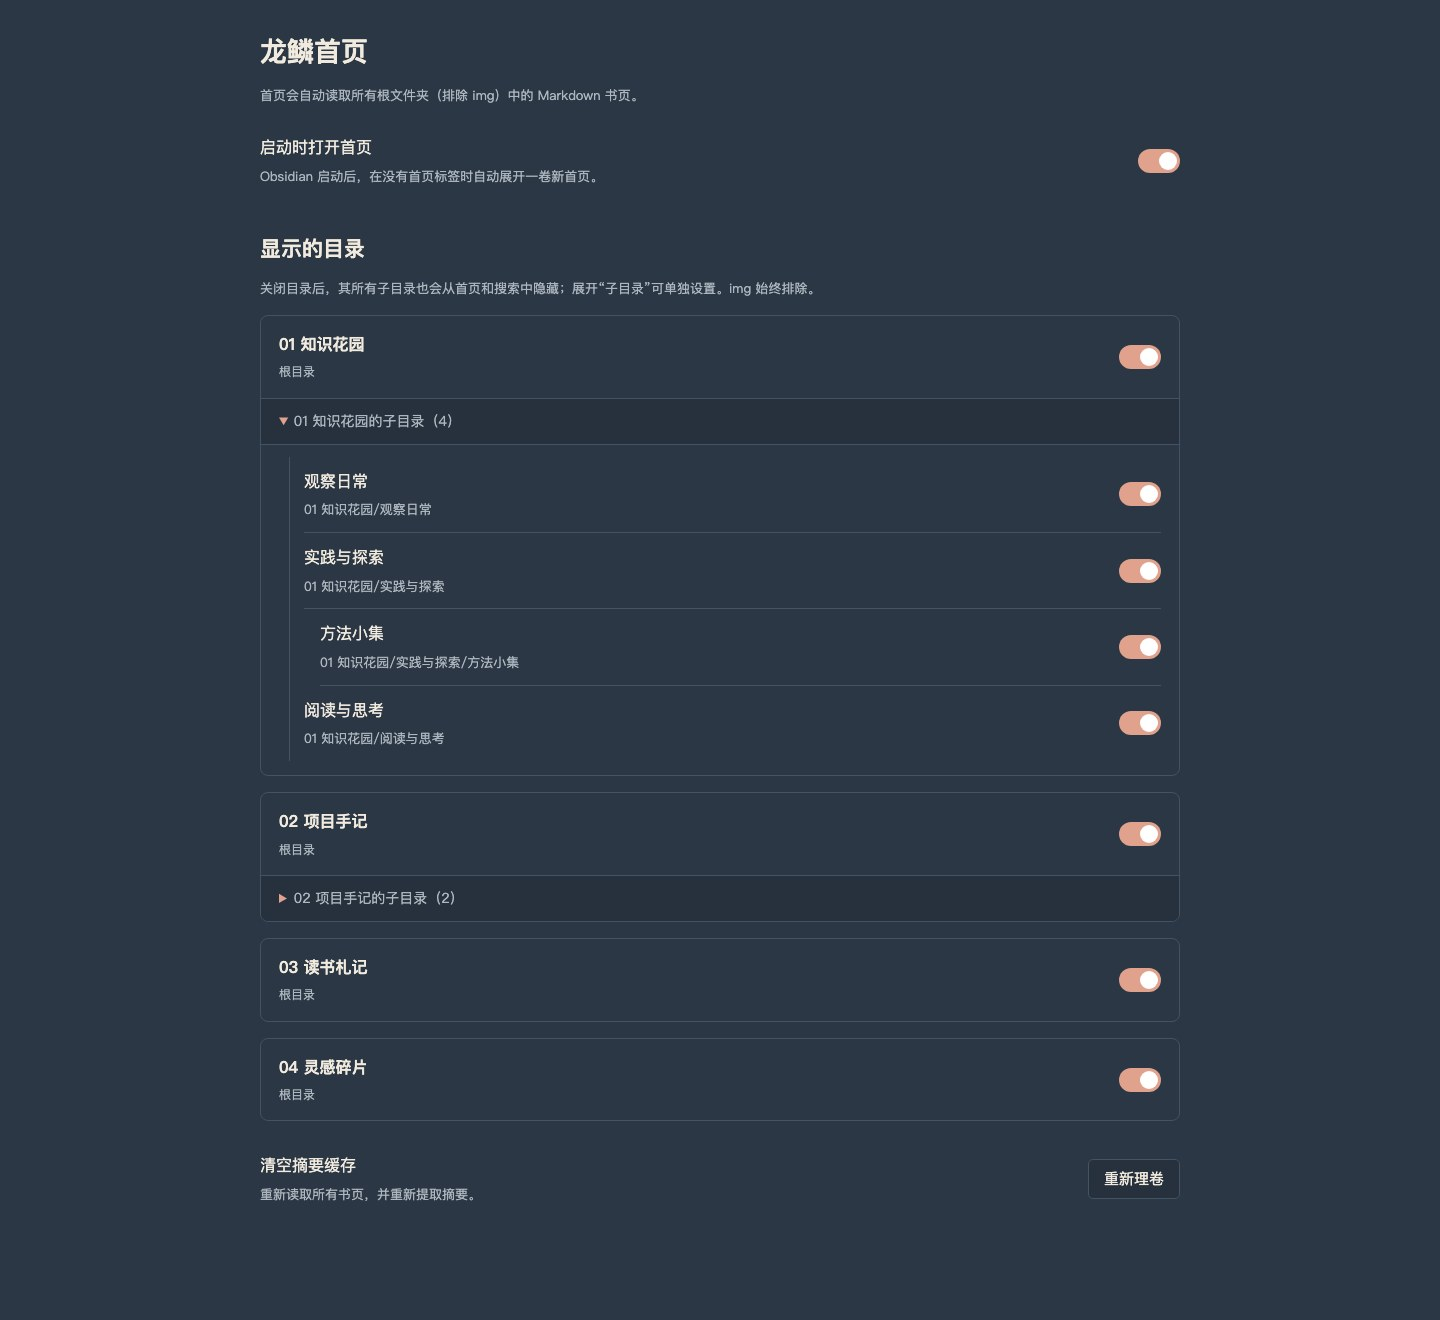
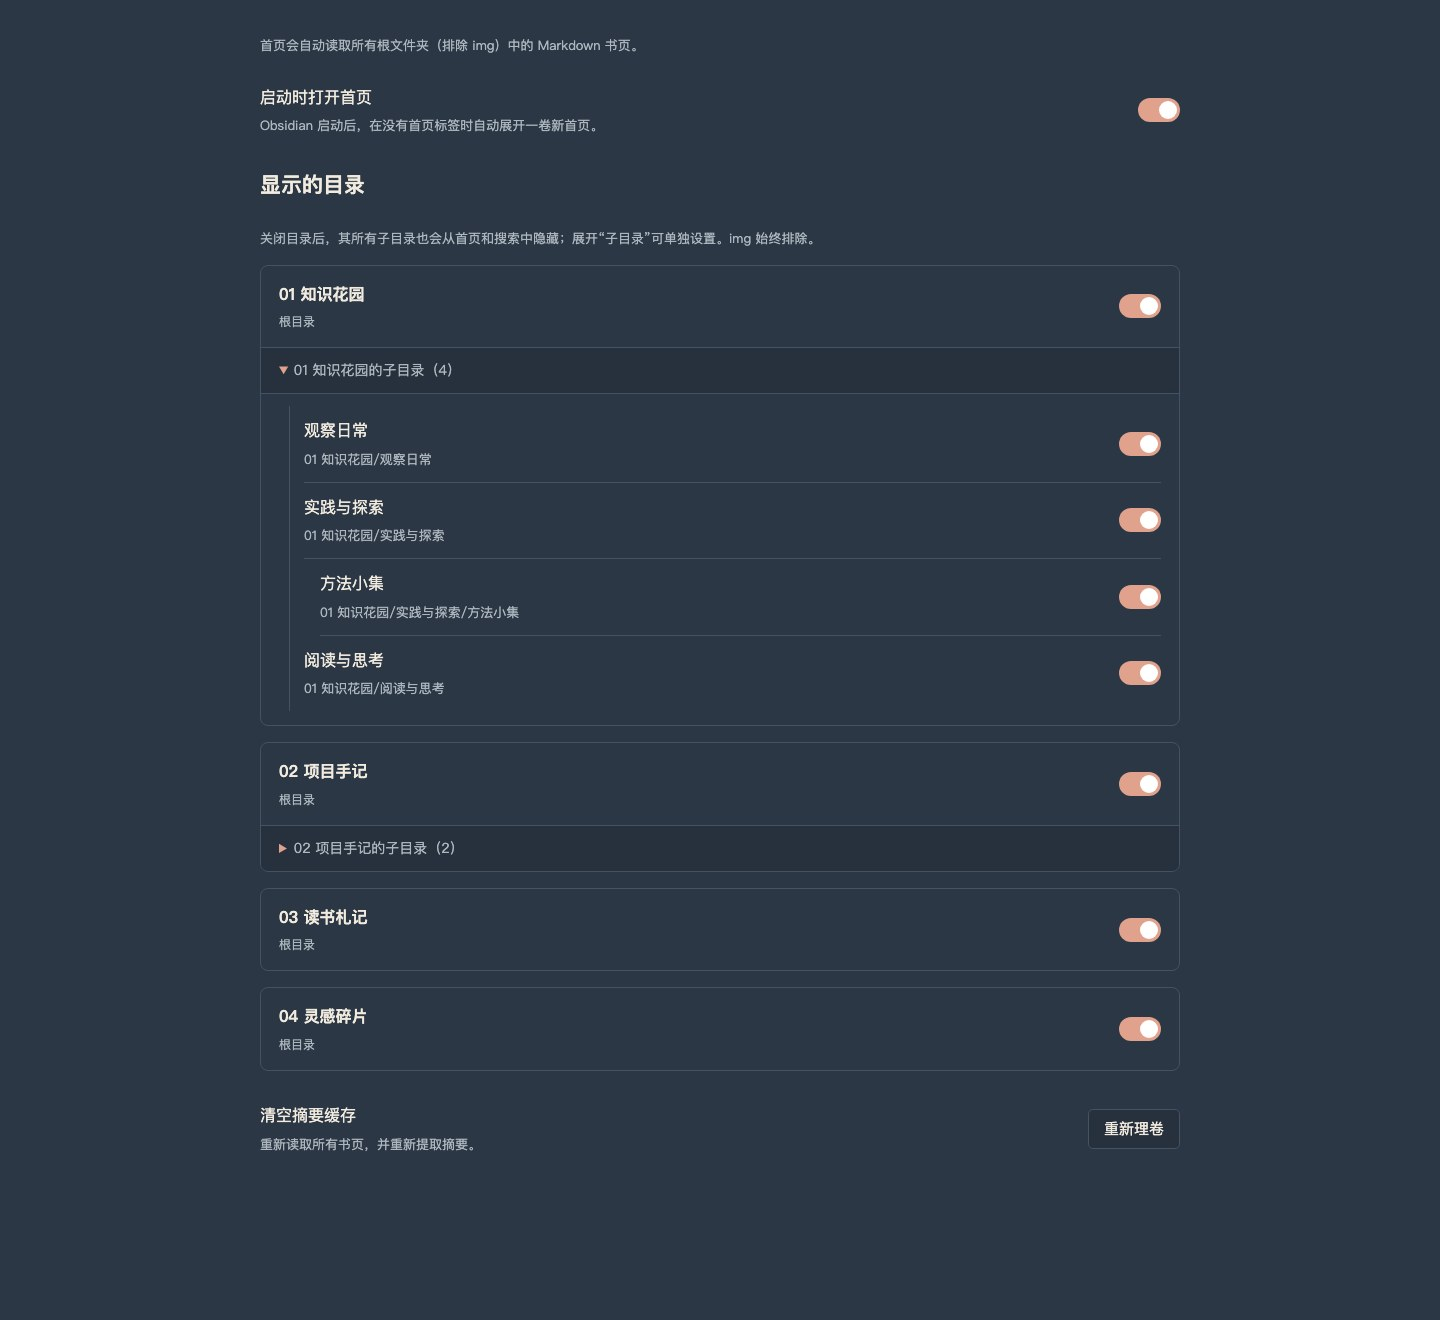
Prepare 1.3.2 for the Obsidian Community directory

diff --git a/main.js b/main.js
@@ -179,7 +179,7 @@ class DragonScrollHomeView extends ItemView {
     this.sections = [];
     this.generation = 0;
     this.searchQuery = "";
-    this.suppressNextPageClick = false;
+    this.suppressClickUntil = 0;
     this.dragState = null;
     this.expandedChildren = new Map();
     this.searchClosedChildren = new Set();
@@ -609,7 +609,7 @@ class DragonScrollHomeView extends ItemView {
         button.querySelector(".ll-child-toggle").textContent = expanded ? "收" : "展";
         panel.hidden = !expanded;
         if (expanded && !panel.firstElementChild) panel.append(this.buildRoll(child, group, () => {
-          if (this.suppressNextPageClick) return;
+          if (Date.now() < this.suppressClickUntil) return;
           if (this.query) this.searchClosedChildren.add(child.path);
           else this.expandedChildren.delete(section.path);
           this.touchPagePath = "";
@@ -629,7 +629,7 @@ class DragonScrollHomeView extends ItemView {
       }
     };
     for (const { child, button } of entries) button.onclick = () => {
-      if (this.suppressNextPageClick) return;
+      if (Date.now() < this.suppressClickUntil) return;
       if (this.query) {
         if (this.searchClosedChildren.has(child.path)) this.searchClosedChildren.delete(child.path);
         else this.searchClosedChildren.add(child.path);
@@ -663,7 +663,7 @@ class DragonScrollHomeView extends ItemView {
     if (page.originLabel) reveal.append(createElement("span", "ll-page-origin", page.originLabel));
     button.append(title, reveal);
     button.addEventListener("click", (event) => {
-      if (this.suppressNextPageClick) return;
+      if (Date.now() < this.suppressClickUntil) return;
       if (window.matchMedia?.("(hover: none)").matches && this.touchPagePath !== page.path) {
         this.contentEl.querySelectorAll(".is-open-page").forEach((el) => el.classList.remove("is-open-page"));
         this.touchPagePath = page.path;
@@ -698,7 +698,7 @@ class DragonScrollHomeView extends ItemView {
     });
     shell.querySelectorAll(".ll-index-item").forEach((button) => {
       button.addEventListener("click", () => {
-        const target = document.getElementById(button.dataset.target);
+        const target = shell.querySelector(`#${button.dataset.target}`);
         target?.scrollIntoView({ behavior: "smooth", block: "start" });
       });
     });
@@ -706,7 +706,8 @@ class DragonScrollHomeView extends ItemView {
       if (!event.target.closest(".ll-page-shell")) {
         this.touchPagePath = "";
         shell.querySelectorAll(".is-open-page").forEach((el) => el.classList.remove("is-open-page"));
-        if (document.activeElement?.matches(".ll-page")) document.activeElement.blur();
+        const active = this.contentEl.ownerDocument.activeElement;
+        if (active?.matches(".ll-page")) active.blur();
       }
     });
   }
@@ -728,8 +729,7 @@ class DragonScrollHomeView extends ItemView {
     });
     const endDrag = () => {
       if (drag?.moved) {
-        this.suppressNextPageClick = true;
-        window.setTimeout(() => { this.suppressNextPageClick = false; }, 150);
+        this.suppressClickUntil = Date.now() + 150;
       }
       track.classList.remove("is-dragging");
       drag = null;
@@ -788,7 +788,6 @@ class DragonScrollHomeSettingTab extends PluginSettingTab {
     const expanded = new Set([...containerEl.querySelectorAll("details[data-parent-path][open]")].map((el) => el.dataset.parentPath));
     containerEl.empty();
     containerEl.classList.add("ll-directory-settings");
-    containerEl.createEl("h2", { text: "龙鳞首页" });
     containerEl.createEl("p", {
       text: "首页会自动读取所有根文件夹（排除 img）中的 Markdown 书页。",
       cls: "setting-item-description",
@@ -802,7 +801,7 @@ class DragonScrollHomeSettingTab extends PluginSettingTab {
           await this.plugin.saveSettings();
         }),
       );
-    containerEl.createEl("h3", { text: "显示的目录" });
+    new Setting(containerEl).setName("显示的目录").setHeading();
     containerEl.createEl("p", { text: "关闭目录后，其所有子目录也会从首页和搜索中隐藏；展开“子目录”可单独设置。img 始终排除。", cls: "setting-item-description" });
     const folders = [];
     const collect = (parent, depth = 0) => {
@@ -817,7 +816,7 @@ class DragonScrollHomeSettingTab extends PluginSettingTab {
       const row = new Setting(target).setName(folder.name).setDesc(depth === 0 ? "根目录" : `${folder.path}${blocked ? "（父目录已隐藏）" : ""}`);
       row.settingEl.dataset.folderPath = folder.path;
       row.settingEl.classList.add(depth === 0 ? "ll-directory-parent" : "ll-directory-child");
-      row.settingEl.style.marginInlineStart = `${Math.max(0, depth - 1) * 16}px`;
+      row.settingEl.style.setProperty("--ll-setting-depth", String(Math.max(0, depth - 1)));
       row.addToggle((toggle) => toggle.setValue(!hidden.includes(folder.path)).setDisabled(blocked).onChange(async (visible) => {
         const values = new Set(this.plugin.settings.hiddenFolders || []);
         if (visible) values.delete(folder.path); else values.add(folder.path);
@@ -858,7 +857,10 @@ class DragonScrollHomeSettingTab extends PluginSettingTab {
 
 class DragonScrollHomePlugin extends Plugin {
   async onload() {
-    this.settings = Object.assign({}, DEFAULT_SETTINGS, await this.loadData());
+    this.unloaded = false;
+    const saved = await this.loadData();
+    if (this.unloaded) return;
+    this.settings = Object.assign({}, DEFAULT_SETTINGS, saved);
     this.settings.hiddenFolders = Array.isArray(this.settings.hiddenFolders) ? this.settings.hiddenFolders.filter((path) => typeof path === "string") : [];
     this.summaryCache = new Map();
     this.refreshTimer = null;
@@ -868,14 +870,14 @@ class DragonScrollHomePlugin extends Plugin {
       void this.activateView();
     });
     this.addCommand({
-      id: "open-dragon-scroll-home",
+      id: "open-home",
       name: "打开龙鳞首页",
       callback: () => {
         void this.activateView();
       },
     });
     this.addCommand({
-      id: "refresh-dragon-scroll-home",
+      id: "refresh-home",
       name: "重整龙鳞首页",
       callback: () => {
         this.clearSummaryCache();
@@ -885,19 +887,10 @@ class DragonScrollHomePlugin extends Plugin {
     this.addSettingTab(new DragonScrollHomeSettingTab(this.app, this));
     this.registerVaultEvents();
     this.app.workspace.onLayoutReady(() => {
-      if (this.settings.openOnStartup && !this.getHomeViews().length) {
-        window.setTimeout(() => {
-          if (this.settings.openOnStartup && !this.getHomeViews().length) {
-            void this.activateView();
-          }
-        }, 650);
-      }
-    });
-    window.setTimeout(() => {
-      if (this.settings.openOnStartup && !this.getHomeViews().length) {
+      if (!this.unloaded && this.settings.openOnStartup && !this.getHomeViews().length) {
         void this.activateView();
       }
-    }, 1600);
+    });
   }
 
   async saveSettings() {
@@ -959,8 +952,9 @@ class DragonScrollHomePlugin extends Plugin {
   }
 
   onunload() {
+    this.unloaded = true;
     window.clearTimeout(this.refreshTimer);
-    this.app.workspace.detachLeavesOfType(VIEW_TYPE);
+    this.summaryCache?.clear();
   }
 }
 

diff --git a/styles.css b/styles.css
@@ -1938,3 +1938,6 @@ body.theme-dark .dragon-scroll-home .ll-seal { color: #F1EADF; }
 /* Arrow controls removed: the paper begins immediately below the child title. */
 .dragon-scroll-home .ll-volume-head { grid-template-columns: minmax(0, 1fr) auto; }
 .dragon-scroll-home .ll-inline-panel .ll-volume-head { display: none; }
+
+/* Directory indentation is data-driven and remains theme-overridable. */
+.ll-directory-settings .ll-directory-child { margin-inline-start: calc(var(--ll-setting-depth, 0) * 16px); }

diff --git a/docs/demo/base.css b/docs/demo/base.css
@@ -32,3 +32,5 @@ button { font: inherit; white-space: nowrap; }
 .setting-item-control input:checked::after { left: 21px; }
 .setting-item-control input:disabled { opacity: .4; }
 .setting-item-control button { border: 1px solid var(--background-modifier-border); background: var(--background-secondary); color: var(--text-normal); padding: 7px 15px; border-radius: 5px; }
+
+.setting-item-heading .setting-item-name { font-size: 21px; font-weight: 600; }

diff --git a/docs/demo/adapter.js b/docs/demo/adapter.js
@@ -41,6 +41,7 @@ class Setting {
   }
   setName(text) { this.nameEl.textContent = text; return this; }
   setDesc(text) { this.descEl.textContent = text; return this; }
+  setHeading() { this.settingEl.classList.add("setting-item-heading"); return this; }
   addToggle(configure) {
     const input = this.controls.createEl('input');
     input.type = 'checkbox';

diff --git a/docs/COMMUNITY_SUBMISSION.md b/docs/COMMUNITY_SUBMISSION.md
@@ -1,0 +1,41 @@
+# Obsidian 社区目录提交
+
+截至 2026-11-05，已完成提交前的仓库与版本准备；**尚未正式提交、尚未上架**。最终状态以 Obsidian Community 后台为准。
+
+## 提交信息
+
+- 仓库：https://github.com/jackyoung022/Obsidian-WJLL-plugin
+- 英文名称：Dragon Scroll Home
+- 插件 ID：dragon-scroll-home
+- 准备版本：1.3.2
+- 最低版本：Obsidian 1.14.4
+- 开源协议：MIT
+- 描述：Browse folders and notes as traditional Chinese scrolls, with vertical summaries, nested volumes, and configurable folder visibility.
+
+## 已完成的规范调整
+
+- 显示名称使用 Basic Latin；中文首页和品牌保留。
+- 简短英文描述以句点结尾，少于250字符。
+- 最低版本以实机验证版本为准；旧版本映射仍保留。
+- 启动逻辑只在布局就绪后执行；卸载后不能触发延迟打开。
+- 刷新定时器在卸载时取消，拖拽防误触使用时间戳。
+- 不在卸载时强制移除工作区标签。
+- 设置分节使用 Setting.setHeading，缩进使用CSS变量。
+- 命令使用open-home和refresh-home，由Obsidian自动添加插件ID前缀。
+- README、MIT LICENSE、五张示例截图与对应Release附件齐全。
+- Node检查、卸载/异步加载生命周期测试、示例库浏览器交互检查和安装ZIP检查通过。
+
+## 官方提交流程
+
+1. 登录 [Obsidian Community](https://community.obsidian.md/)，设置个人资料并关联GitHub。
+2. 进入 Plugins → New plugin，填写上述仓库URL和条目所有者。
+3. 账号本人阅读开发者政策、确认持续维护承诺，并最终提交。
+4. 根据自动审核反馈修正问题；通过平台审核前不能宣称已上架。
+
+## 官方资料
+
+- [提交说明](https://docs.obsidian.md/Plugins/Releasing/Submit%20your%20plugin)
+- [账号关联与提交表单](https://github.com/obsidianmd/obsidian-developer-docs/blob/main/en/Community%20directory/Set%20up%20and%20claim.md)
+- [Manifest](https://docs.obsidian.md/Reference/Manifest)
+- [提交要求](https://github.com/obsidianmd/obsidian-developer-docs/blob/main/en/Community%20directory/Submission%20requirements%20for%20plugins.md)
+- [Plugin guidelines](https://github.com/obsidianmd/obsidian-developer-docs/blob/main/en/Plugins/Releasing/Plugin%20guidelines.md)

diff --git a/CHANGELOG.md b/CHANGELOG.md
@@ -1,5 +1,16 @@
 # 更新记录
 
+## 1.3.2 — 2026-11-05
+
+社区目录提交准备版本，目前尚未上架。
+
+- 商店显示名称改为 Dragon Scroll Home，中文首页与品牌保留。
+- 最低版本提高到已验证的 Obsidian 1.14.4。
+- 移除重复的启动定时器，插件卸载后不会触发新的首页打开动作。
+- 卸载时保留工作区标签位置，交由 Obsidian 管理视图生命周期。
+- 目录设置使用标准分节标题，目录缩进支持主题覆盖。
+- 命令 ID 改为 open-home 与 refresh-home；若此前设置了命令快捷键，请重新绑定。
+
 ## 1.3.1 — 2026-11-05
 
 首次作为独立仓库发布，包含目前可用的完整首页功能。
